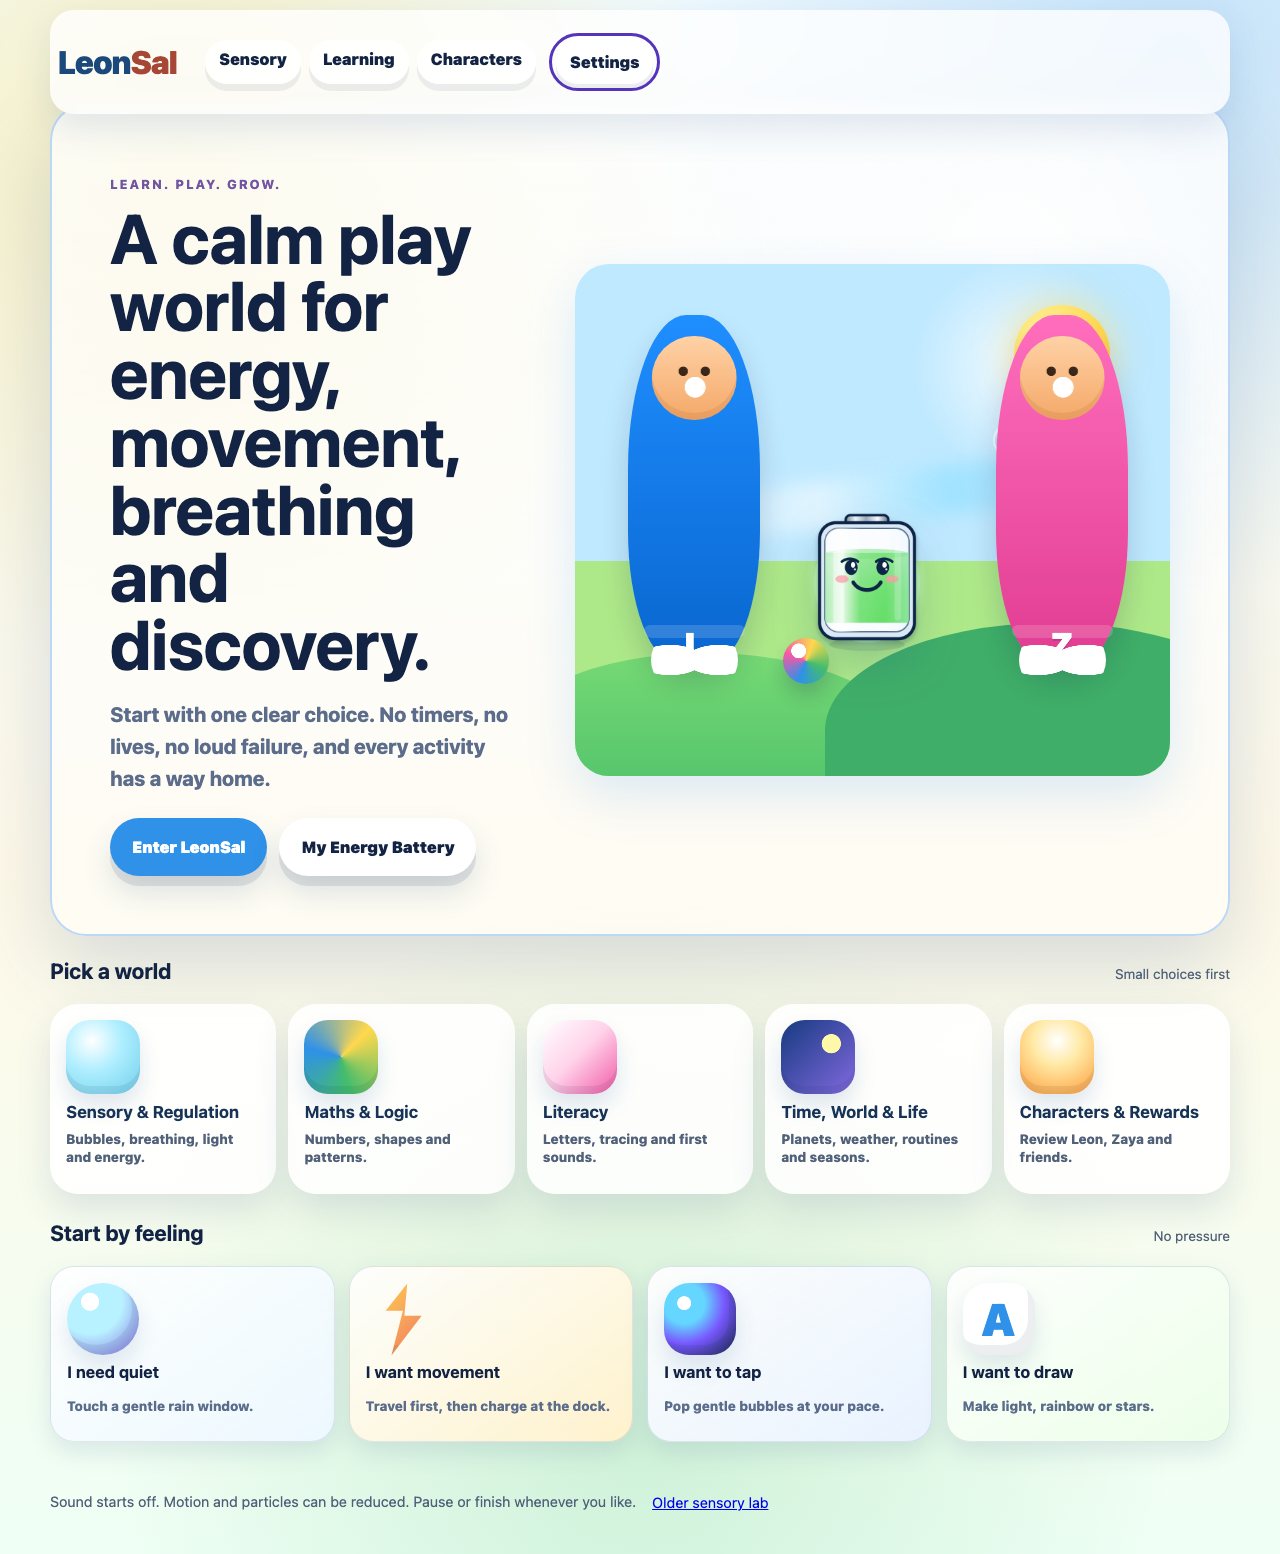
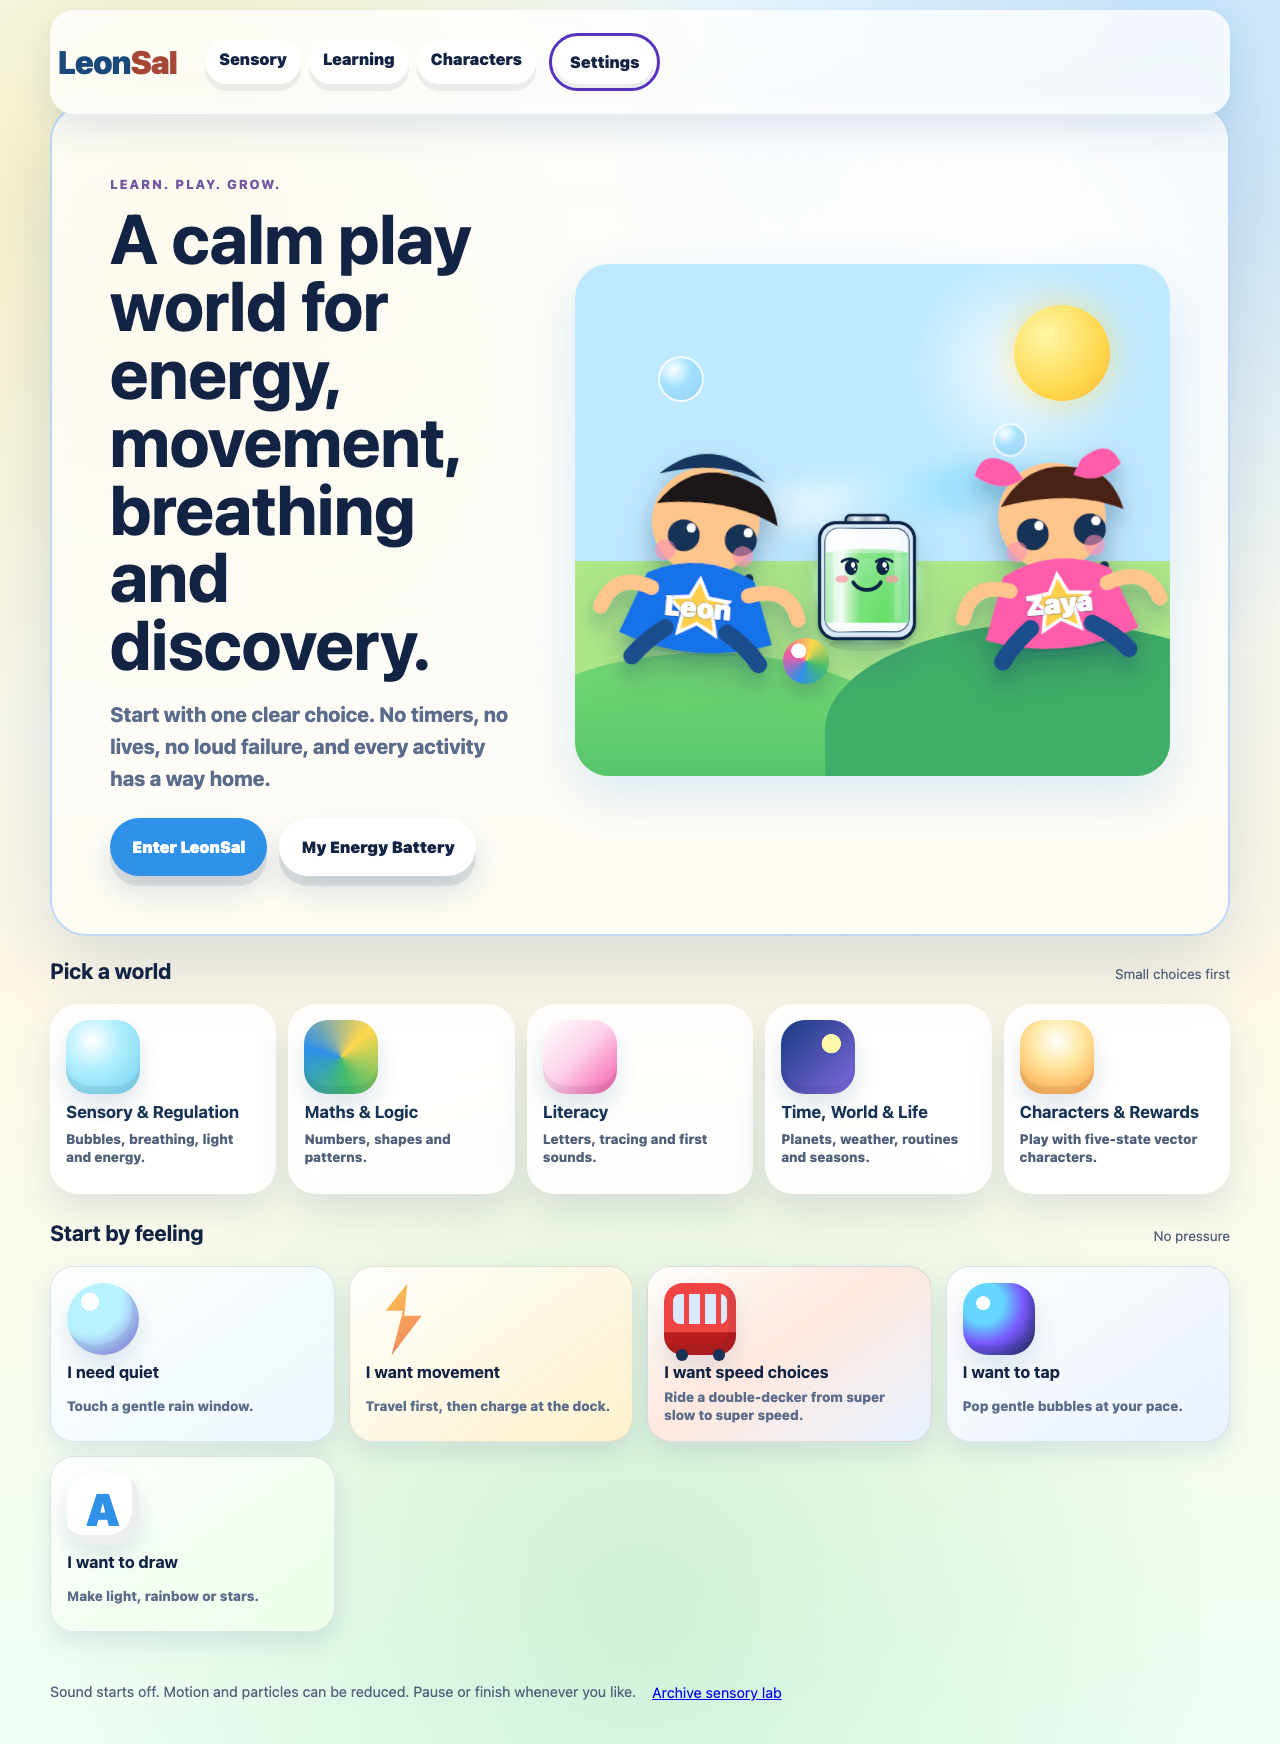
Add procedural Leon and Zaya home animation

diff --git a/js/v2-home-characters.js b/js/v2-home-characters.js
@@ -1,0 +1,53 @@
+'use strict';
+
+(() => {
+  const svgNS = 'http://www.w3.org/2000/svg';
+  const states = {
+    leon: { shirt: '#1872e8', hair: '#1d1512', name: 'Leon', lean: 5, lift: -4 },
+    zaya: { shirt: '#ff5dab', hair: '#4a2418', name: 'Zaya', lean: -5, lift: -8 }
+  };
+
+  function makeGuide(id) {
+    const guide = states[id] || states.leon;
+    const svg = document.createElementNS(svgNS, 'svg');
+    svg.setAttribute('viewBox', '0 0 220 220');
+    svg.setAttribute('role', 'presentation');
+    svg.classList.add('home-guide-svg', `home-guide-${id}`);
+    svg.innerHTML = `
+      <filter id="homeGuideShadow-${id}" x="-30%" y="-30%" width="160%" height="160%">
+        <feDropShadow dx="0" dy="10" stdDeviation="7" flood-color="#143a6d" flood-opacity=".2"/>
+      </filter>
+      <g transform="translate(0 ${guide.lift}) rotate(${guide.lean} 110 112)" filter="url(#homeGuideShadow-${id})">
+        <ellipse cx="110" cy="188" rx="58" ry="13" fill="#143a6d" opacity=".14"/>
+        <circle cx="110" cy="83" r="47" fill="#ffc58d"/>
+        <path d="M66 71 q32 -48 88 -22 q14 10 19 33 q-44 -22 -107 -11z" fill="${guide.hair}"/>
+        ${id === 'zaya' ? '<path d="M80 35 q-26 -18 -34 7 q21 18 42 6zM140 35 q26 -18 34 7 q-21 18 -42 6z" fill="#ff5dab"/>' : '<path d="M66 45 q44 -42 93 0 q-38 -18 -93 0z" fill="#12355e"/>'}
+        <circle cx="92" cy="97" r="14" fill="#173356"/>
+        <circle cx="142" cy="97" r="14" fill="#173356"/>
+        <circle cx="98" cy="90" r="4" fill="#fff"/>
+        <circle cx="148" cy="90" r="4" fill="#fff"/>
+        <circle cx="77" cy="111" r="9" fill="#ff8fb1" opacity=".58"/>
+        <circle cx="145" cy="111" r="9" fill="#ff8fb1" opacity=".58"/>
+        <path d="M88 130 q30 36 64 0" fill="none" stroke="#173356" stroke-width="8" stroke-linecap="round"/>
+        <path d="M101 139 q18 18 39 0" fill="#ff775f" opacity=".9"/>
+        <path d="M63 132 q47 -24 94 0 l20 54 q-67 25 -134 0z" fill="${guide.shirt}"/>
+        <path d="M68 145 q-33 -12 -43 20" fill="none" stroke="#ffc58d" stroke-width="13" stroke-linecap="round"/>
+        <path d="M153 145 q35 -13 45 17" fill="none" stroke="#ffc58d" stroke-width="13" stroke-linecap="round"/>
+        <path d="M83 179 q-16 12 -27 27" fill="none" stroke="#1f4d8d" stroke-width="15" stroke-linecap="round"/>
+        <path d="M137 179 q18 10 30 25" fill="none" stroke="#1f4d8d" stroke-width="15" stroke-linecap="round"/>
+        <path d="M110 134 l8 16 18 2 -13 12 4 18 -17 -9 -16 9 3 -18 -13 -12 18 -2z" fill="#ffcf48" stroke="#fff" stroke-width="3"/>
+        <text x="110" y="168" text-anchor="middle" fill="#fff" stroke="rgba(20,58,109,.34)" stroke-width="2" paint-order="stroke" font-family="system-ui, sans-serif" font-size="24" font-weight="1000">${guide.name}</text>
+      </g>`;
+    return svg;
+  }
+
+  function install() {
+    document.querySelectorAll('[data-home-guide]').forEach((target) => {
+      target.setAttribute('data-svg-guide', 'true');
+      target.replaceChildren(makeGuide(target.dataset.homeGuide));
+    });
+  }
+
+  if (document.readyState === 'loading') document.addEventListener('DOMContentLoaded', install, { once: true });
+  else install();
+})();

diff --git a/index.html b/index.html
@@ -8,6 +8,7 @@
   <title>LeonSal — Learn. Play. Grow.</title>
   <link rel="stylesheet" href="v2-proofs.css">
   <script src="v2-engine.js" defer></script>
+  <script src="js/v2-home-characters.js" defer></script>
   <script src="js/approved-character-image.js" defer></script>
   <script src="js/v2-home.js" defer></script>
   <script src="js/v2-offline.js" defer></script>
@@ -40,8 +41,8 @@
         <span class="landing-hill hill-one" aria-hidden="true"></span>
         <span class="landing-hill hill-two" aria-hidden="true"></span>
         <span class="landing-battery" data-approved-character="battery-buddy" data-character-state="happy"><span class="home-battery"></span></span>
-        <span class="landing-runner runner-leon" aria-hidden="true"><span>Leon</span></span>
-        <span class="landing-runner runner-zaya" aria-hidden="true"><span>Zaya</span></span>
+        <span class="landing-runner runner-leon" data-home-guide="leon" role="img" aria-label="Leon playing"><span>Leon</span></span>
+        <span class="landing-runner runner-zaya" data-home-guide="zaya" role="img" aria-label="Zaya playing"><span>Zaya</span></span>
         <span class="landing-ball" aria-hidden="true"></span>
         <span class="landing-bubble bubble-a" aria-hidden="true"></span>
         <span class="landing-bubble bubble-b" aria-hidden="true"></span>

diff --git a/v2-proofs.css b/v2-proofs.css
@@ -1012,6 +1012,22 @@ body[data-contrast="strong"] .game-topbar {
   transform: rotate(-28deg);
 }
 
+.landing-runner[data-svg-guide="true"] {
+  background: transparent;
+  filter: drop-shadow(0 18px 20px rgba(19, 35, 67, .18));
+}
+.landing-runner[data-svg-guide="true"]::before,
+.landing-runner[data-svg-guide="true"]::after,
+.landing-runner[data-svg-guide="true"] > span {
+  display: none;
+}
+.landing-runner .home-guide-svg {
+  position: absolute;
+  inset: -24% -35% -16%;
+  width: 170%;
+  height: 152%;
+}
+
 .runner-leon {
   left: 9%;
   animation: landingRunLeon 6.5s ease-in-out infinite;
@@ -2440,6 +2456,14 @@ body[data-calm="true"] .connection-status { transition: none; }
   .world-game h3 { margin: 2px 0 6px; }
   .world-game p { margin: 0 0 8px; font-size: .85rem; line-height: 1.4; }
   .world-game .play-label { margin: 0; font-size: .9rem; }
+  .v2-hub .hub-game-grid,
+  .v2-hub .hub-engine-grid { display: flex; }
+  .v2-hub .hub-game-grid .world-game,
+  .v2-hub .hub-engine-grid .world-game {
+    display: grid;
+    flex: 0 0 min(82vw, 330px);
+    min-height: 318px;
+  }
   .home-battery { width: 62px; height: 38px; border-width: 4px; border-radius: 10px; }
   .home-battery:after { top: 9px; right: -9px; width: 5px; height: 14px; }
   .home-dock { width: 54px; height: 44px; border-width: 4px; }

diff --git a/v2-home.html b/v2-home.html
@@ -8,6 +8,7 @@
   <title>LeonSal V2 — Sensory World</title>
   <link rel="stylesheet" href="v2-proofs.css">
   <script src="v2-engine.js" defer></script>
+  <script src="js/v2-home-characters.js" defer></script>
   <script src="js/approved-character-image.js" defer></script>
   <script src="js/v2-home.js" defer></script>
   <script src="js/v2-offline.js" defer></script>
@@ -57,8 +58,8 @@
         <span class="hub-park" aria-hidden="true"></span>
         <span class="hub-sports-goal" aria-hidden="true"></span>
         <span class="hub-hopscotch" aria-hidden="true"><i>1</i><i>2</i><i>3</i></span>
-        <span class="landing-runner runner-leon" aria-hidden="true"><span>Leon</span></span>
-        <span class="landing-runner runner-zaya" aria-hidden="true"><span>Zaya</span></span>
+        <span class="landing-runner runner-leon" data-home-guide="leon" role="img" aria-label="Leon playing"><span>Leon</span></span>
+        <span class="landing-runner runner-zaya" data-home-guide="zaya" role="img" aria-label="Zaya playing"><span>Zaya</span></span>
         <span class="landing-ball" aria-hidden="true"></span>
         <span class="hub-battery" data-approved-character="battery-buddy" data-character-state="happy"><span class="home-battery"></span></span>
         <span class="hub-orbit"></span>

diff --git a/sw.js b/sw.js
@@ -45,6 +45,7 @@ const SAFE_ASSETS = [
   './v2-engine.js',
   './js/v2-game-shell.js',
   './js/v2-home.js',
+  './js/v2-home-characters.js',
   './js/v2-character-world.js',
   './js/approved-character-image.js',
   './data/character-assets.json',
